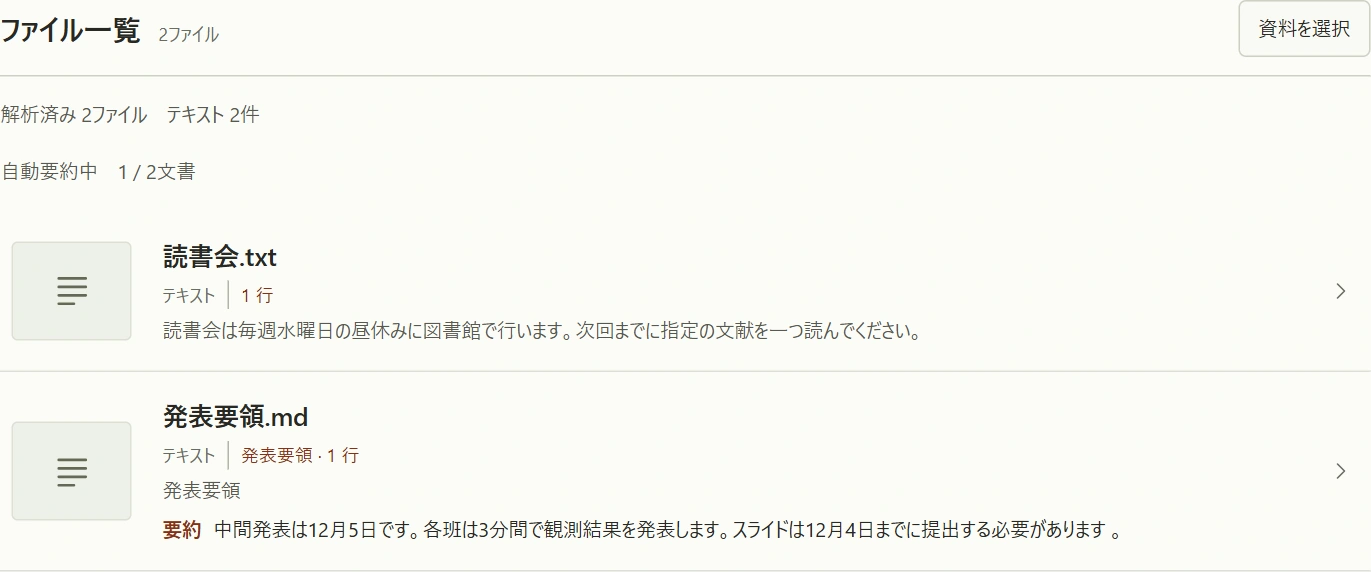
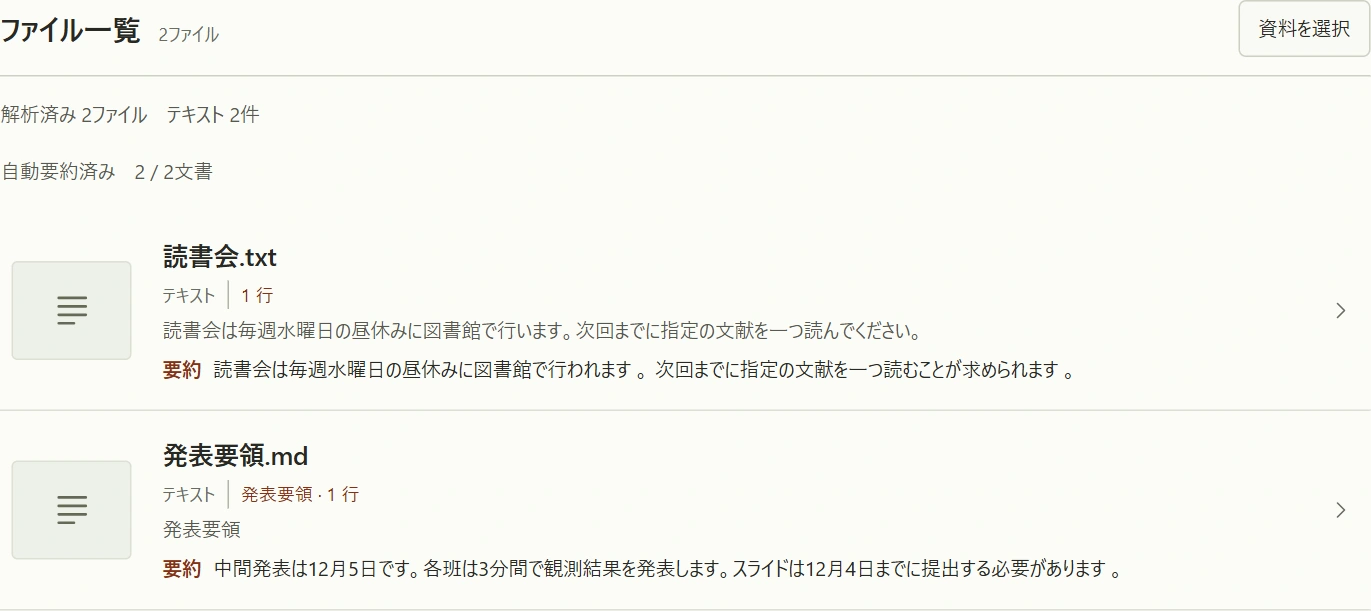
検証済みの0.3.5大学用ZIPと自動要約の完了画面を反映

diff --git a/public/guide/index.html b/public/guide/index.html
@@ -115,7 +115,7 @@
         <h3>授業の資料を自動で要約する</h3>
         <p>登録フォルダーの横の<strong>「…」</strong>で、その授業の自動要約をオンにします。初期設定はオフです。オンにした授業を選ぶと、一覧を表示したまま、本文を読み取れた文書をGemmaが1件ずつ要約します。通常版で初めて使うときは、下の手順でGemmaを追加してください。</p>
         <p>一覧で要点を読み、詳しく知りたい資料を開くと出典を確認できます。別の授業に移っても完成した要約はこのPCに残り、戻ると続きから進みます。文書の更新は「再解析」で取り込みます。その授業の自動要約をオフにすると、保存した要約も削除されます。</p>
-        <figure class="guide-shot"><a href="/assets/guide/folder-summaries.webp" target="_blank" rel="noopener" aria-label="文書ごとの自動要約を拡大（新しいタブ）"><img src="/assets/guide/folder-summaries.webp" width="1371" height="572" alt="ファイル一覧で自動要約が2件完了し、読書会と中間発表の要点がそれぞれの資料の下に表示されている。" loading="lazy"></a><figcaption>各資料の「要約」を見比べられます。資料名を押すと要約の全文と出典が開きます。</figcaption></figure>
+        <figure class="guide-shot"><a href="/assets/guide/folder-summaries.webp" target="_blank" rel="noopener" aria-label="文書ごとの自動要約を拡大（新しいタブ）"><img src="/assets/guide/folder-summaries.webp" width="1371" height="611" alt="ファイル一覧で自動要約が2件完了し、読書会と中間発表の要点がそれぞれの資料の下に表示されている。" loading="lazy"></a><figcaption>各資料の「要約」を見比べられます。資料名を押すと要約の全文と出典が開きます。</figcaption></figure>
         <h3>ひとつの資料を手動で要約する</h3>
         <ol>
           <li>PDF、Word、Excel、PowerPoint、テキスト資料などの検索結果をひとつ開きます。</li>
